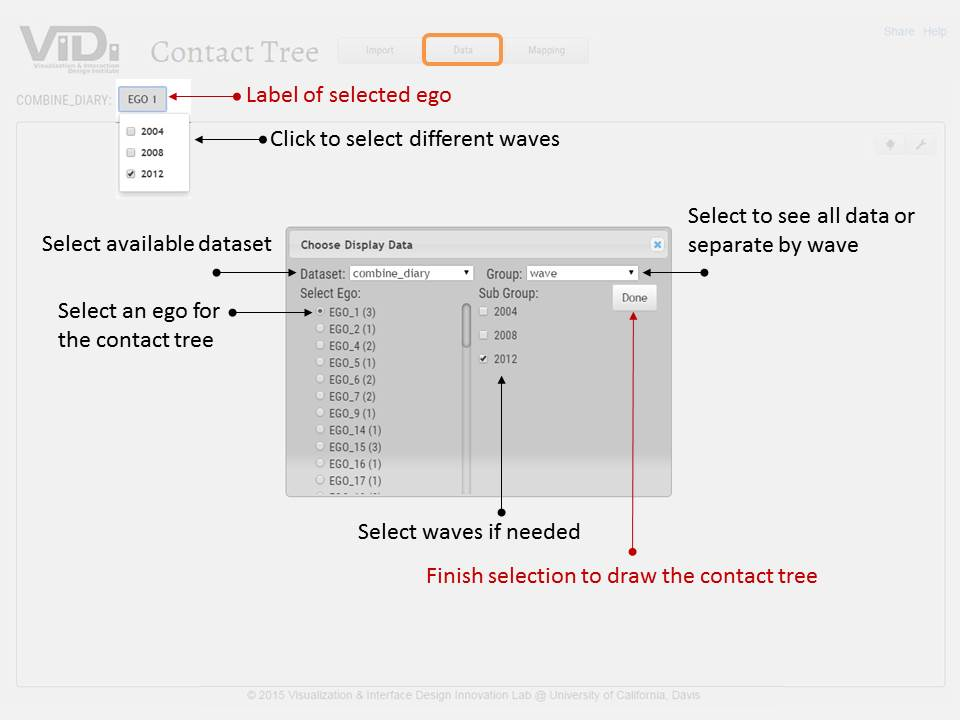
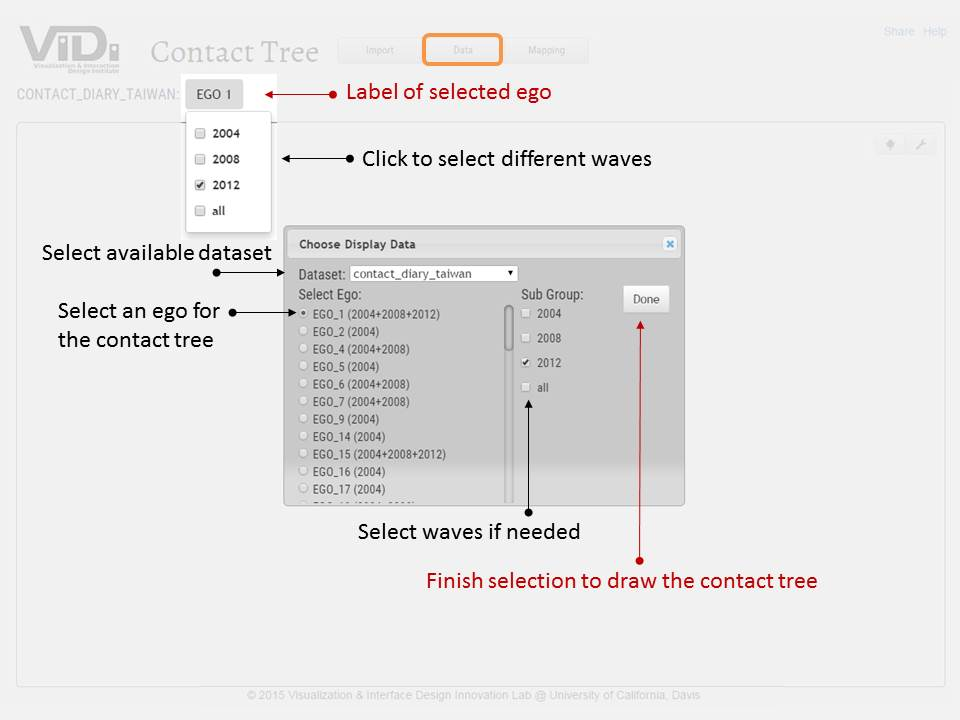
update help instruction for Sinica (8083)

Changed region(s): [[0.0312, 0.0917, 0.9375, 0.825]]

diff --git a/contact_tree/templates/index.html b/contact_tree/templates/index.html
@@ -331,9 +331,9 @@
             <div id="instruction_label" style="margin:15 -20px 0 0;">
                 <span class="sidekey_cmpt">Trunk</span>
                 <span class="myfont3">Tree componments such as trunk, branch...</span><br><p><p>
-                <span class="sidekey_map" style="background:rgb(252, 180, 183); visibility:visible;">None</span>
+                <span class="instruction_map" style="background:rgb(252, 180, 183);">None</span>
                 <span class="myfont3">Map to default value</span><br><p>
-                <span class="sidekey_map" style="visibility: isible;">Sex</span>
+                <span class="instruction_map">Sex</span>
                 <span class="myfont3">Data attributes mapped into the tree</span><br>
             </div>
             <div id="instruction_symbol" style="margin:15 -20px 0 0;">
@@ -421,7 +421,7 @@
             </select>
         </div>
         
-        <!-- <a id="data_help" href="#" class="right" style="cursor:pointer;">?</a> -->
+        <a id="data_help" href="#" class="right" style="cursor:pointer;">?</a>
        
         <div id="main_selection" style="margin-top:5px;">
             <!-- list all egos -->

diff --git a/contact_tree/media/js/my_app.js b/contact_tree/media/js/my_app.js
@@ -178,12 +178,12 @@ var MyApp = function MyApp(){
         }
     }
 
-    if(session_id == 8407169205136597){
-        session_id = 8807169205136597;
-        document.cookie = "session_id=" + session_id.toString() + ";"
-        first_use = 0;
-        document.cookie = "mode=;expires=Thu, 01 Jan 1970 00:00:00 GMT";
-    }
+    // if(session_id == 8407169205136597){
+    //     session_id = 8807169205136597;
+    //     document.cookie = "session_id=" + session_id.toString() + ";"
+    //     first_use = 0;
+    //     document.cookie = "mode=;expires=Thu, 01 Jan 1970 00:00:00 GMT";
+    // }
     
     // get the share url
     var current_url = window.location.href;

diff --git a/contact_tree/media/css/style.css b/contact_tree/media/css/style.css
@@ -76,6 +76,15 @@ table, th, td {
   width:50%;
 }
 
+.instruction_map{
+  font-size:18px;
+  border:1px solid;
+  border-radius:5px;
+  background: rgb(245, 244, 174);
+  /*background: rgb(252, 180, 183);*/
+  padding: 0 3px;
+}
+
 .sidekey_label{
   cursor:pointer; 
   position:absolute;
@@ -84,7 +93,6 @@ table, th, td {
   border-radius:5;
   background: gray;*/
 }
-
 
 .sidekey_cmpt{
   font-size:18px;

diff --git a/contact_tree/query.py b/contact_tree/query.py
@@ -973,7 +973,7 @@ def duplicate_stick(all_data, attr, branch_layer):
 
 ################################### local cache #######################################
 def set_ctree_mapping(user_ctree_data, table, attr, mapping, ego_group, select_ego):
-    print "***** set_ctree_mapping *****"    
+    # print "***** set_ctree_mapping *****"    
     db = DB()
     binary_index = dict()
     branch_order_index = []
@@ -1193,7 +1193,7 @@ def set_ctree_mapping(user_ctree_data, table, attr, mapping, ego_group, select_e
 
 
 def insert_ctree_mapping(user_ctree_data, all_data, table, attr, mapping, ego_group):
-    print "****** insert_ctree_mapping ******"
+    # print "****** insert_ctree_mapping ******"
     db = DB()
     binary_index = dict()
     branch_order_index = []
@@ -1471,7 +1471,7 @@ def insert_ctree_mapping(user_ctree_data, all_data, table, attr, mapping, ego_gr
 
 
 def restore_ctree_mapping(user_ctree_data, ego_list, table, attr, mapping, group):
-    print "****** restore_ctree_mapping ******"
+    # print "****** restore_ctree_mapping ******"
     data_table = table.split("_of_")[1]
     session = table.split("_of_")[0]
     last_use_ego = {session: {data_table: {}}}
